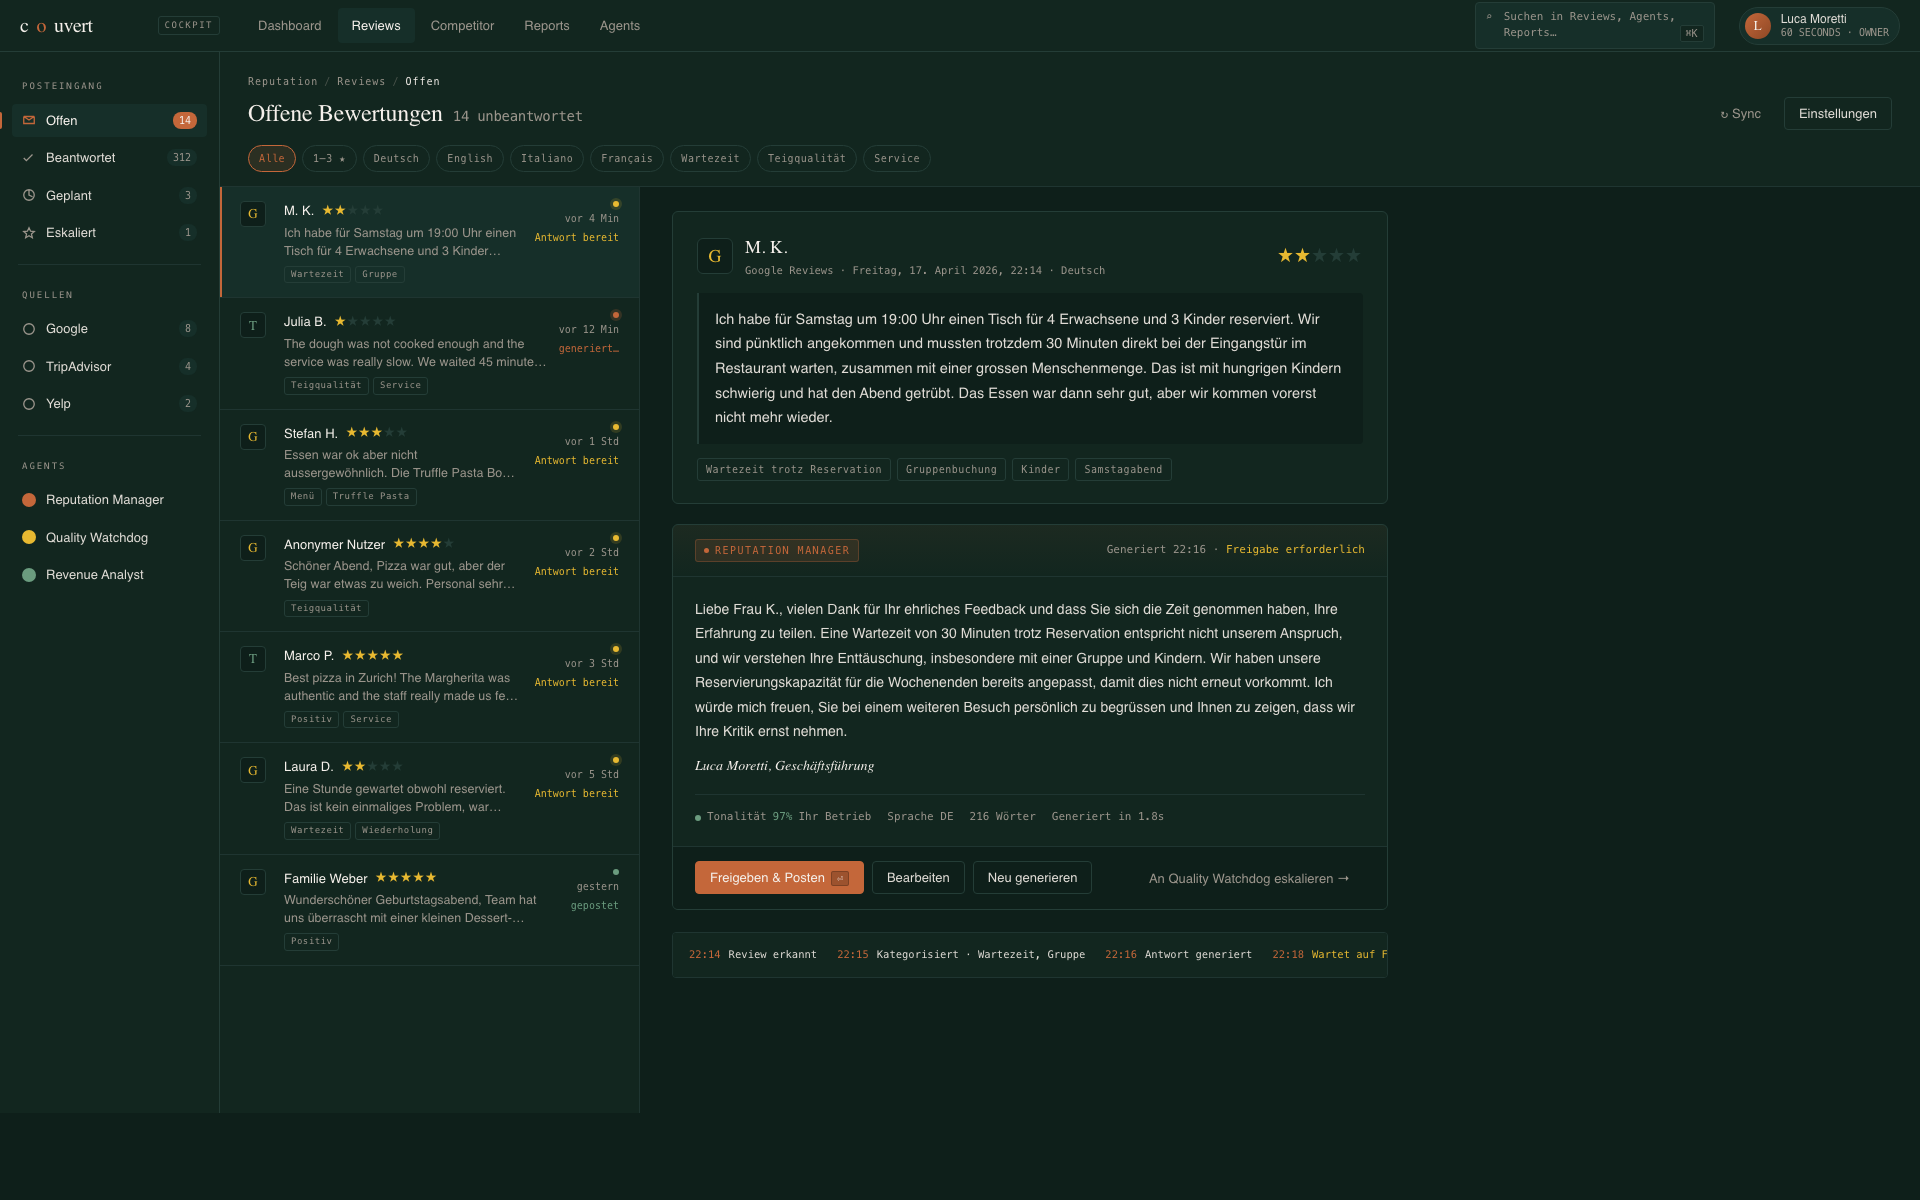
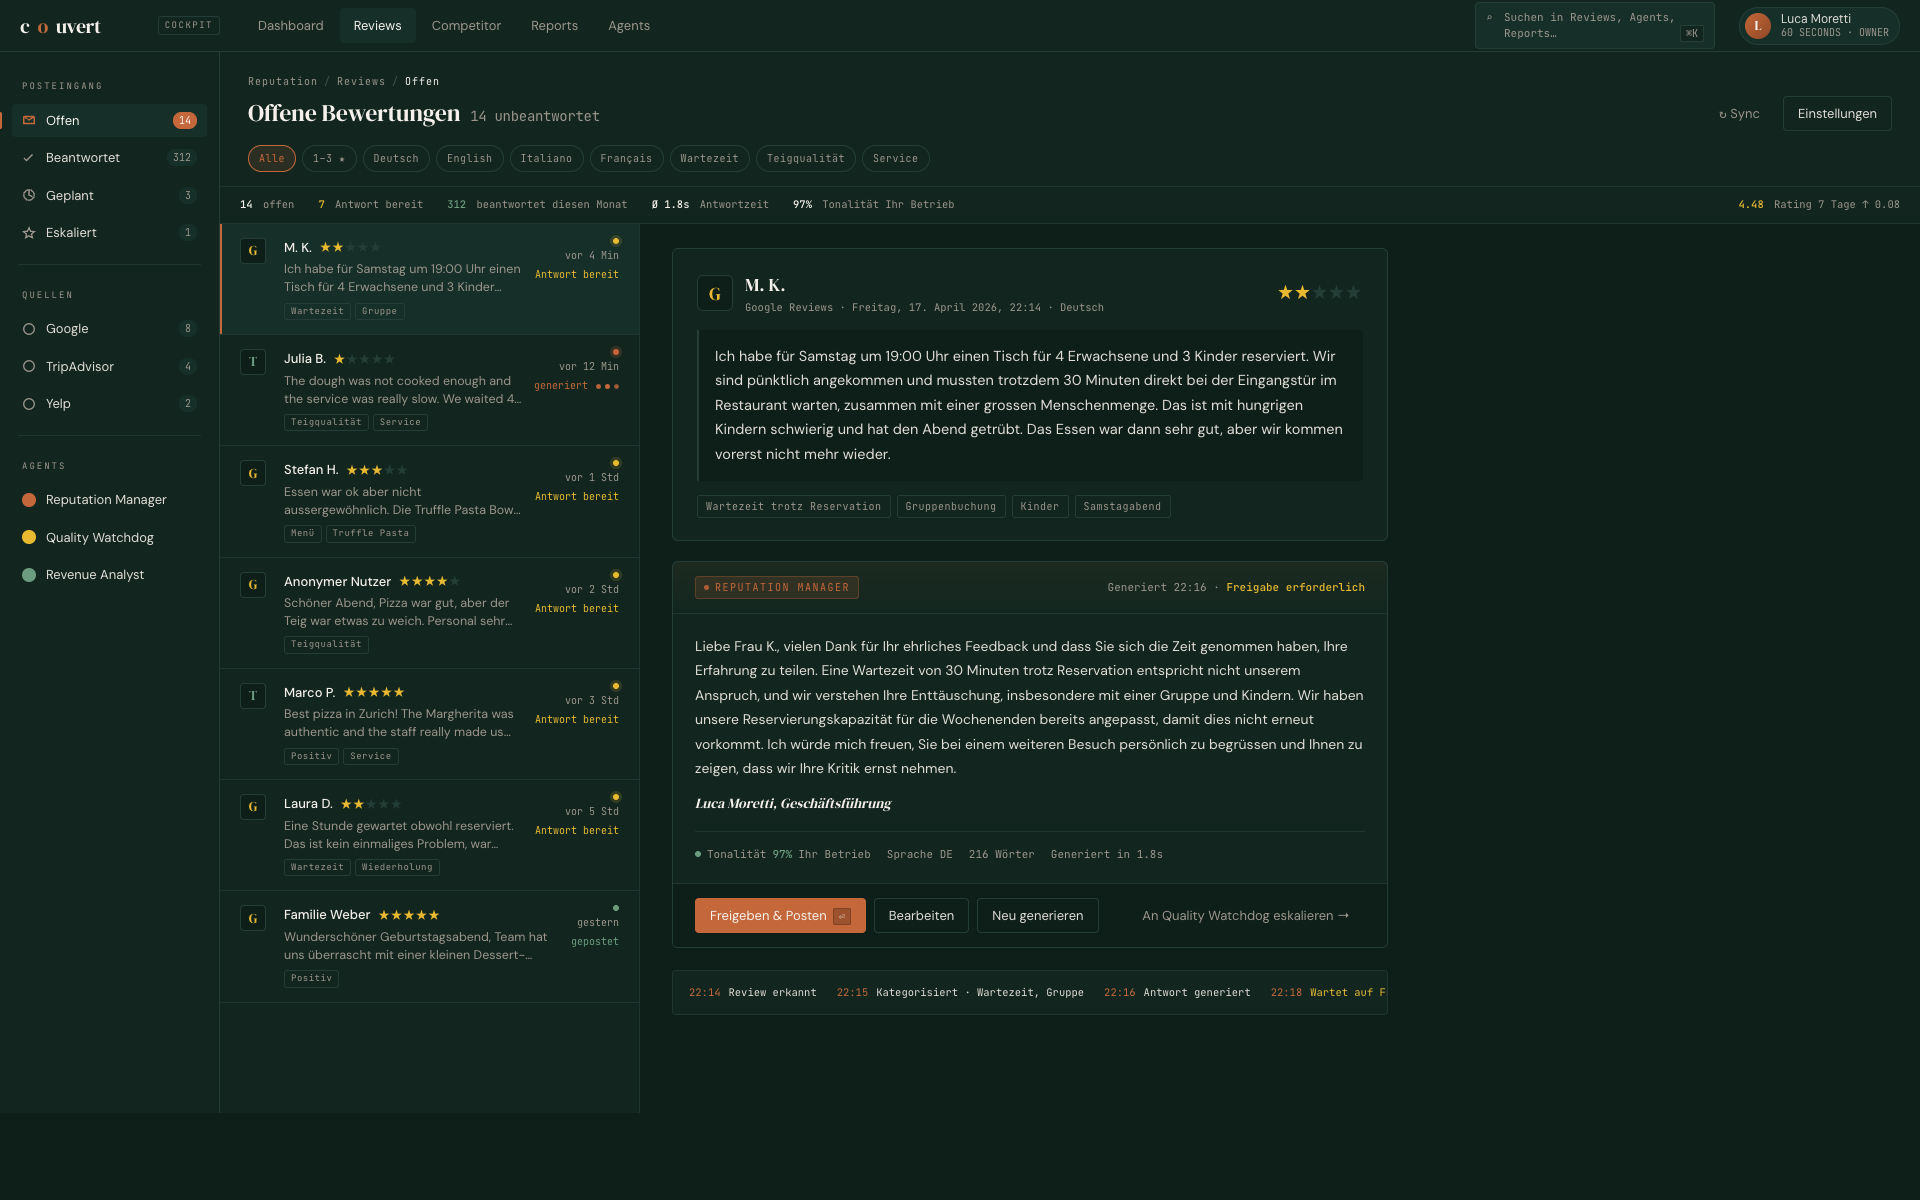
Mockup differentiation: each of 4 UIs now visually distinct
Per user feedback 'die bilder von lösungen für jedes team unterscheiden
sich untereinander zu wenig' — added screen-specific visual signatures
so each looks like a meaningfully different UI, not a recolored clone.

Reviews:
- Horizontal stats-strip (14 offen · 7 ready · 312 posted · Ø 1.8s
  Reaktion · 97% Tonalität-Match · 4.48★ aktuelles Rating)
- Animated typing-dots indicator next to AI reply in progress
- Agent-card with pulse tag

Shift:
- NEW horizontal service-timeline (16:00–23:00) with colored
  reservation dots (gold=VIP, copper=Rückkehrer, green=neu)
- Dashed peak-window box (19:00–21:00 Spitze)
- Live-pulsing 'JETZT 17:42' indicator
- Context-strip + KPI cards + reservation table + briefing sidebar

Report:
- Masthead with REPORT-ID + FREIGEGEBEN stamp (reads as generated doc)
- Area-fill sparkline under hero CHF 24'300
- 6-column mini-metrics row (Rating · Reviews · Antwortquote ·
  Teig-Beschwerden · No-Show · Ø Check) with trend deltas

Competitor:
- Threat-level gauge per card (self 72% stark, Margheri 88% HOCH
  copper-gradient angreifer, San Gennaro 28% NIEDRIG green,
  Da Nino 52% MITTEL gold)
- 4-card matrix + multi-line 8-week rating chart + event feed

Shared chrome (unchanged): topbar + logo + ⌘K search + user-pill,
220px sidebar, color tokens, fonts, page-title pattern.

PNGs re-captured at 1920×1200 via Chrome headless.

diff --git a/docs/mockups/product-report.html b/docs/mockups/product-report.html
@@ -68,6 +68,25 @@ body{font-family:'DM Sans',sans-serif;background:var(--bg4);color:var(--text);fo
 .kpi{background:var(--bg3);border:1px solid var(--border-soft);border-radius:6px;padding:20px 22px;position:relative;overflow:hidden}
 .kpi.hero{background:linear-gradient(135deg,var(--bg3),var(--bg2));border-color:var(--border)}
 .kpi.hero::before{content:'';position:absolute;right:-30px;top:-30px;width:200px;height:200px;background:radial-gradient(circle,var(--copper-soft),transparent 70%);pointer-events:none}
+.kpi.hero .spark{margin-top:14px;width:100%;height:56px;display:block}
+/* 6-metric mini grid */
+.mini-metrics{display:grid;grid-template-columns:repeat(6,1fr);gap:10px;margin-bottom:22px}
+.mm{background:var(--bg3);border:1px solid var(--border-soft);border-radius:5px;padding:12px 13px}
+.mm-label{font-family:'JetBrains Mono',monospace;font-size:8.5px;letter-spacing:1.2px;color:var(--dim);text-transform:uppercase;margin-bottom:6px}
+.mm-val{font-family:'JetBrains Mono',monospace;font-size:18px;font-weight:600;color:var(--cream);line-height:1}
+.mm-val.green{color:var(--green)}
+.mm-val.gold{color:var(--gold)}
+.mm-val.copper{color:var(--copper)}
+.mm-val.red{color:var(--red)}
+.mm-trend{font-family:'JetBrains Mono',monospace;font-size:10px;color:var(--dim);margin-top:4px;display:flex;align-items:center;gap:4px}
+.mm-trend.up{color:var(--green)}
+.mm-trend.down{color:var(--red)}
+.mm-spark{height:18px;margin-top:6px;display:block;width:100%}
+/* Report masthead */
+.masthead{display:flex;align-items:center;justify-content:space-between;padding:14px 22px;background:linear-gradient(90deg,var(--bg3),var(--bg2));border:1px solid var(--border);border-radius:6px;margin-bottom:18px;font-family:'JetBrains Mono',monospace;font-size:10px;letter-spacing:1.5px;color:var(--dim);text-transform:uppercase}
+.masthead .m-left{display:flex;align-items:center;gap:20px}
+.masthead .m-left b{color:var(--cream);font-weight:500}
+.masthead .stamp{border:1px solid var(--copper);color:var(--copper);padding:3px 8px;border-radius:3px;letter-spacing:2px}
 .kpi-label{font-family:'JetBrains Mono',monospace;font-size:9.5px;letter-spacing:1.5px;color:var(--dim);text-transform:uppercase;margin-bottom:10px}
 .kpi-num{font-family:'JetBrains Mono',monospace;font-size:28px;font-weight:600;color:var(--cream);line-height:1;margin-bottom:8px}
 .kpi.hero .kpi-num{font-size:40px;color:var(--gold)}
@@ -185,11 +204,27 @@ body{font-family:'DM Sans',sans-serif;background:var(--bg4);color:var(--text);fo
         <span class="sub" style="margin-top:0">Vergleich: März 2026</span>
       </div>
 
+      <div class="masthead">
+        <div class="m-left">
+          <span>REPORT-ID · <b>COUV-APR26-0421</b></span>
+          <span>ZEITRAUM · <b>01.–30. APRIL 2026</b></span>
+          <span>VERGLEICH · MÄRZ 2026</span>
+          <span>GENERIERT · 01.05.2026 04:02</span>
+        </div>
+        <span class="stamp">FREIGEGEBEN</span>
+      </div>
+
       <div class="hero-row">
         <div class="kpi hero">
           <div class="kpi-label">Realisierter Effekt · April</div>
           <div class="kpi-num">CHF 24.300</div>
           <div class="kpi-sub">basierend auf 3 aktiven Massnahmen <span class="badge-gain">+CHF 11.800 vs März</span></div>
+          <svg class="spark" viewBox="0 0 500 56" preserveAspectRatio="none">
+            <defs><linearGradient id="sparkgrad" x1="0" y1="0" x2="0" y2="1"><stop offset="0%" stop-color="#E8B931" stop-opacity="0.35"/><stop offset="100%" stop-color="#E8B931" stop-opacity="0"/></linearGradient></defs>
+            <path d="M0,46 L40,44 L80,40 L120,42 L160,36 L200,34 L240,30 L280,26 L320,22 L360,18 L400,14 L440,10 L480,8 L500,6 L500,56 L0,56 Z" fill="url(#sparkgrad)"/>
+            <polyline points="0,46 40,44 80,40 120,42 160,36 200,34 240,30 280,26 320,22 360,18 400,14 440,10 480,8 500,6" fill="none" stroke="#E8B931" stroke-width="2"/>
+            <circle cx="500" cy="6" r="3.5" fill="#E8B931"/>
+          </svg>
         </div>
         <div class="kpi">
           <div class="kpi-label">Identifiziertes Potenzial</div>
@@ -201,6 +236,15 @@ body{font-family:'DM Sans',sans-serif;background:var(--bg4);color:var(--text);fo
           <div class="kpi-num">4<span style="color:var(--dim);font-size:20px"> / 10</span></div>
           <div class="kpi-sub">in Umsetzung · 6 priorisiert</div>
         </div>
+      </div>
+
+      <div class="mini-metrics">
+        <div class="mm"><div class="mm-label">Rating</div><div class="mm-val gold">4.48</div><div class="mm-trend up">↑ 0.08</div></div>
+        <div class="mm"><div class="mm-label">Reviews</div><div class="mm-val">86</div><div class="mm-trend up">↑ 12%</div></div>
+        <div class="mm"><div class="mm-label">Antwortquote</div><div class="mm-val green">94%</div><div class="mm-trend up">↑ 94pt</div></div>
+        <div class="mm"><div class="mm-label">Beschwerden Teig</div><div class="mm-val green">−68%</div><div class="mm-trend up">vs. März</div></div>
+        <div class="mm"><div class="mm-label">No-Show</div><div class="mm-val">3.2%</div><div class="mm-trend">— flat</div></div>
+        <div class="mm"><div class="mm-label">Ø Check</div><div class="mm-val copper">CHF 58</div><div class="mm-trend up">↑ CHF 3</div></div>
       </div>
 
       <div class="section">

diff --git a/docs/mockups/product-shift.html b/docs/mockups/product-shift.html
@@ -111,6 +111,25 @@ body{font-family:'DM Sans',sans-serif;background:var(--bg4);color:var(--text);fo
 .alert b{color:var(--gold)}
 .alert a{color:var(--copper);text-decoration:none;font-family:'JetBrains Mono',monospace;font-size:11px;letter-spacing:0.5px}
 
+/* Service Timeline */
+.service-timeline{background:var(--bg3);border:1px solid var(--border-soft);border-radius:6px;padding:18px 22px;margin-bottom:16px;position:relative}
+.st-head{display:flex;align-items:center;justify-content:space-between;margin-bottom:14px}
+.st-head h3{font-family:'DM Serif Display',serif;font-size:15px;color:var(--cream);font-weight:normal;letter-spacing:-0.2px}
+.st-legend{font-family:'JetBrains Mono',monospace;font-size:10px;color:var(--dim);display:flex;gap:14px}
+.st-legend span{display:inline-flex;align-items:center;gap:5px}
+.st-legend .dot{width:7px;height:7px;border-radius:50%;display:inline-block}
+.st-track{position:relative;height:58px;background:linear-gradient(90deg,var(--bg4) 0%,var(--bg4) 20%,rgba(232,185,49,0.08) 20%,rgba(232,185,49,0.08) 75%,var(--bg4) 75%,var(--bg4) 100%);border-radius:3px;border:1px solid var(--border-soft);margin-bottom:8px}
+.st-hour-labels{display:flex;justify-content:space-between;padding:0 2px;font-family:'JetBrains Mono',monospace;font-size:10px;color:var(--dim)}
+.st-now{position:absolute;top:-6px;bottom:-6px;width:2px;background:var(--green);box-shadow:0 0 0 4px rgba(107,156,127,0.18);border-radius:1px;z-index:2}
+.st-now::after{content:'JETZT 17:42';position:absolute;top:-18px;left:50%;transform:translateX(-50%);font-family:'JetBrains Mono',monospace;font-size:9px;color:var(--green);letter-spacing:1px;white-space:nowrap;background:var(--bg3);padding:1px 5px;border-radius:3px;border:1px solid rgba(107,156,127,0.3)}
+.rez-dot{position:absolute;width:12px;height:12px;border-radius:50%;top:50%;transform:translate(-50%,-50%);border:2px solid var(--bg3);cursor:pointer}
+.rez-dot.vip{background:var(--gold);box-shadow:0 0 0 3px rgba(232,185,49,0.2)}
+.rez-dot.reg{background:var(--copper)}
+.rez-dot.new{background:var(--green)}
+.rez-dot.lg{width:16px;height:16px}
+.rez-peak{position:absolute;top:2px;bottom:2px;background:rgba(196,103,58,0.12);border:1px dashed rgba(196,103,58,0.35);border-radius:2px;pointer-events:none}
+.rez-peak-label{position:absolute;top:-16px;font-family:'JetBrains Mono',monospace;font-size:9px;color:var(--copper);letter-spacing:1px;white-space:nowrap}
+
 @media(max-width:1100px){.app{grid-template-columns:64px 1fr}.side-item span:not(.count),.side-label{display:none}.side-item{justify-content:center}.brand{width:auto}.kpi-row{grid-template-columns:repeat(2,1fr)}.grid{grid-template-columns:1fr}}
 @media(max-width:900px){.topnav,.search{display:none}}
 </style>
@@ -178,6 +197,34 @@ body{font-family:'DM Sans',sans-serif;background:var(--bg4);color:var(--text);fo
         <div class="ci">Events Zürich <b>FCZ-Heimspiel 20:45</b></div>
         <span class="sep">·</span>
         <div class="ci">Status <b style="color:var(--green)">Auslastung planbar</b></div>
+      </div>
+
+      <div class="service-timeline">
+        <div class="st-head">
+          <h3>Service-Timeline · heute</h3>
+          <div class="st-legend">
+            <span><span class="dot" style="background:var(--gold)"></span>VIP</span>
+            <span><span class="dot" style="background:var(--copper)"></span>Rückkehrer</span>
+            <span><span class="dot" style="background:var(--green)"></span>Neu</span>
+            <span style="color:var(--copper)"><span class="dot" style="background:rgba(196,103,58,0.3);border:1px dashed var(--copper)"></span>Peak-Fenster</span>
+          </div>
+        </div>
+        <div class="st-track">
+          <div class="rez-peak" style="left:42%;right:12%"><div class="rez-peak-label" style="left:2%">PEAK 19:00–21:00</div></div>
+          <div class="st-now" style="left:17%"></div>
+          <!-- 16:00 left 0%, 23:00 right 100% — 7h span, 1h = ~14.28% -->
+          <div class="rez-dot vip lg" style="left:36%" title="18:30 Familie Bianchi"></div>
+          <div class="rez-dot new" style="left:43%" title="19:00 Schmidt"></div>
+          <div class="rez-dot reg" style="left:46%" title="19:15 Keller"></div>
+          <div class="rez-dot vip lg" style="left:50%" title="19:30 Weber"></div>
+          <div class="rez-dot reg" style="left:57%" title="20:00 Donati"></div>
+          <div class="rez-dot reg lg" style="left:64%" title="20:30 Meyer & Partner"></div>
+          <div class="rez-dot new" style="left:71%" title="21:00 Stefano M."></div>
+          <div class="rez-dot reg" style="left:78%" title="21:30"></div>
+        </div>
+        <div class="st-hour-labels">
+          <span>16:00</span><span>17:00</span><span>18:00</span><span>19:00</span><span>20:00</span><span>21:00</span><span>22:00</span><span>23:00</span>
+        </div>
       </div>
 
       <div class="alert">

diff --git a/docs/mockups/product-competitor.html b/docs/mockups/product-competitor.html
@@ -88,6 +88,21 @@ body{font-family:'DM Sans',sans-serif;background:var(--bg4);color:var(--text);fo
 .comp-metrics .m-val{color:var(--cream);font-family:'JetBrains Mono',monospace;font-size:13px;font-weight:500}
 .comp-metrics .m-val.up{color:var(--green)}
 .comp-metrics .m-val.down{color:var(--red)}
+/* Threat gauge */
+.threat{margin-top:12px;padding-top:10px;border-top:1px dashed var(--border-soft)}
+.threat-head{display:flex;justify-content:space-between;font-family:'JetBrains Mono',monospace;font-size:9px;letter-spacing:1.2px;color:var(--dim);text-transform:uppercase;margin-bottom:6px}
+.threat-head b{font-weight:500}
+.threat-head b.high{color:var(--copper)}
+.threat-head b.med{color:var(--gold)}
+.threat-head b.low{color:var(--green)}
+.threat-head b.self{color:var(--cream)}
+.gauge{position:relative;height:6px;background:var(--bg4);border-radius:3px;overflow:hidden;border:1px solid var(--border-soft)}
+.gauge-fill{position:absolute;top:0;bottom:0;left:0;border-radius:3px}
+.gauge-fill.high{background:linear-gradient(90deg,var(--gold),var(--copper))}
+.gauge-fill.med{background:linear-gradient(90deg,var(--green),var(--gold))}
+.gauge-fill.low{background:var(--green)}
+.gauge-fill.self{background:linear-gradient(90deg,var(--copper),var(--gold))}
+.gauge-scale{position:absolute;top:0;bottom:0;width:1px;background:var(--border)}
 
 /* Events feed */
 .section{background:var(--bg3);border:1px solid var(--border-soft);border-radius:6px;margin-bottom:16px;overflow:hidden}
@@ -200,6 +215,10 @@ body{font-family:'DM Sans',sans-serif;background:var(--bg4);color:var(--text);fo
             <div><div class="m-label">Ø Preis Pizza</div><div class="m-val">CHF 22</div></div>
             <div><div class="m-label">Offen bis</div><div class="m-val">23:00</div></div>
           </div>
+          <div class="threat">
+            <div class="threat-head"><span>Position</span><b class="self">STARK · AUFWÄRTS</b></div>
+            <div class="gauge"><div class="gauge-fill self" style="width:72%"></div><div class="gauge-scale" style="left:33%"></div><div class="gauge-scale" style="left:66%"></div></div>
+          </div>
         </div>
 
         <div class="comp-card alert">
@@ -215,6 +234,10 @@ body{font-family:'DM Sans',sans-serif;background:var(--bg4);color:var(--text);fo
             <div><div class="m-label">Antwortquote</div><div class="m-val">12%</div></div>
             <div><div class="m-label">Ø Preis Pizza</div><div class="m-val down">CHF 20</div></div>
             <div><div class="m-label">Neu: Lunch</div><div class="m-val">CHF 18.90</div></div>
+          </div>
+          <div class="threat">
+            <div class="threat-head"><span>Threat-Level</span><b class="high">HOCH · ANGREIFER</b></div>
+            <div class="gauge"><div class="gauge-fill high" style="width:88%"></div><div class="gauge-scale" style="left:33%"></div><div class="gauge-scale" style="left:66%"></div></div>
           </div>
         </div>
 
@@ -232,6 +255,10 @@ body{font-family:'DM Sans',sans-serif;background:var(--bg4);color:var(--text);fo
             <div><div class="m-label">Ø Preis Pizza</div><div class="m-val">CHF 24</div></div>
             <div><div class="m-label">Offen bis</div><div class="m-val">22:30</div></div>
           </div>
+          <div class="threat">
+            <div class="threat-head"><span>Threat-Level</span><b class="low">NIEDRIG · SCHWÄCHT</b></div>
+            <div class="gauge"><div class="gauge-fill low" style="width:28%"></div><div class="gauge-scale" style="left:33%"></div><div class="gauge-scale" style="left:66%"></div></div>
+          </div>
         </div>
 
         <div class="comp-card">
@@ -247,6 +274,10 @@ body{font-family:'DM Sans',sans-serif;background:var(--bg4);color:var(--text);fo
             <div><div class="m-label">Antwortquote</div><div class="m-val">45%</div></div>
             <div><div class="m-label">Ø Preis Pizza</div><div class="m-val">CHF 23</div></div>
             <div><div class="m-label">Offen bis</div><div class="m-val">23:30</div></div>
+          </div>
+          <div class="threat">
+            <div class="threat-head"><span>Threat-Level</span><b class="med">MITTEL · STABIL</b></div>
+            <div class="gauge"><div class="gauge-fill med" style="width:52%"></div><div class="gauge-scale" style="left:33%"></div><div class="gauge-scale" style="left:66%"></div></div>
           </div>
         </div>
       </div>

diff --git a/docs/mockups/product-reviews.html b/docs/mockups/product-reviews.html
@@ -120,6 +120,22 @@ body{font-family:'DM Sans',sans-serif;background:var(--bg4);color:var(--text);fo
 .ts-time{color:var(--copper)}
 .ts-txt{color:var(--text)}
 .ts-sep{width:20px;height:1px;background:var(--copper);opacity:0.5}
+/* Typing indicator */
+.typing{display:inline-flex;align-items:center;gap:4px;margin-left:8px;vertical-align:middle}
+.typing span{width:5px;height:5px;border-radius:50%;background:var(--copper);animation:bounce 1.4s infinite ease-in-out both}
+.typing span:nth-child(1){animation-delay:-0.32s}
+.typing span:nth-child(2){animation-delay:-0.16s}
+@keyframes bounce{0%,80%,100%{transform:scale(0.6);opacity:0.4}40%{transform:scale(1);opacity:1}}
+/* Stats strip */
+.stats-strip{display:flex;gap:24px;padding:10px 20px;background:var(--bg3);border-bottom:1px solid var(--border-soft);font-family:'JetBrains Mono',monospace;font-size:10.5px;color:var(--dim)}
+.stats-strip b{color:var(--cream);font-weight:500;margin-right:4px}
+.stats-strip .gold-n{color:var(--gold)}
+.stats-strip .green-n{color:var(--green)}
+/* Sentiment bar */
+.sentiment{display:flex;height:4px;border-radius:2px;overflow:hidden;margin-top:10px;background:var(--bg4)}
+.sentiment .s-pos{background:var(--green)}
+.sentiment .s-neu{background:var(--gold)}
+.sentiment .s-neg{background:var(--red)}
 
 @media(max-width:1100px){.app{grid-template-columns:64px 1fr}.side-item span:not(.count),.side-label{display:none}.side-item{justify-content:center}.brand{width:auto}}
 @media(max-width:900px){.split{grid-template-columns:1fr}.list{display:none}.topnav{display:none}.search{display:none}}
@@ -188,6 +204,15 @@ body{font-family:'DM Sans',sans-serif;background:var(--bg4);color:var(--text);fo
       </div>
     </div>
 
+    <div class="stats-strip">
+      <span><b>14</b> offen</span>
+      <span><b class="gold-n">7</b> Antwort bereit</span>
+      <span><b class="green-n">312</b> beantwortet diesen Monat</span>
+      <span><b>Ø 1.8s</b> Antwortzeit</span>
+      <span><b>97%</b> Tonalität Ihr Betrieb</span>
+      <span style="margin-left:auto"><b class="gold-n">4.48</b> Rating 7 Tage ↑ 0.08</span>
+    </div>
+
     <div class="split">
       <!-- LIST -->
       <div class="list">
@@ -214,7 +239,7 @@ body{font-family:'DM Sans',sans-serif;background:var(--bg4);color:var(--text);fo
             <div class="li-preview">The dough was not cooked enough and the service was really slow. We waited 45 minutes for our main course…</div>
             <div class="li-tags"><span class="li-tag">Teigqualität</span><span class="li-tag">Service</span></div>
           </div>
-          <div class="li-meta"><span class="dot-status new"></span>vor 12 Min<br><span style="color:var(--copper)">generiert…</span></div>
+          <div class="li-meta"><span class="dot-status new"></span>vor 12 Min<br><span style="color:var(--copper)">generiert<span class="typing"><span></span><span></span><span></span></span></span></div>
         </div>
 
         <div class="list-item">
